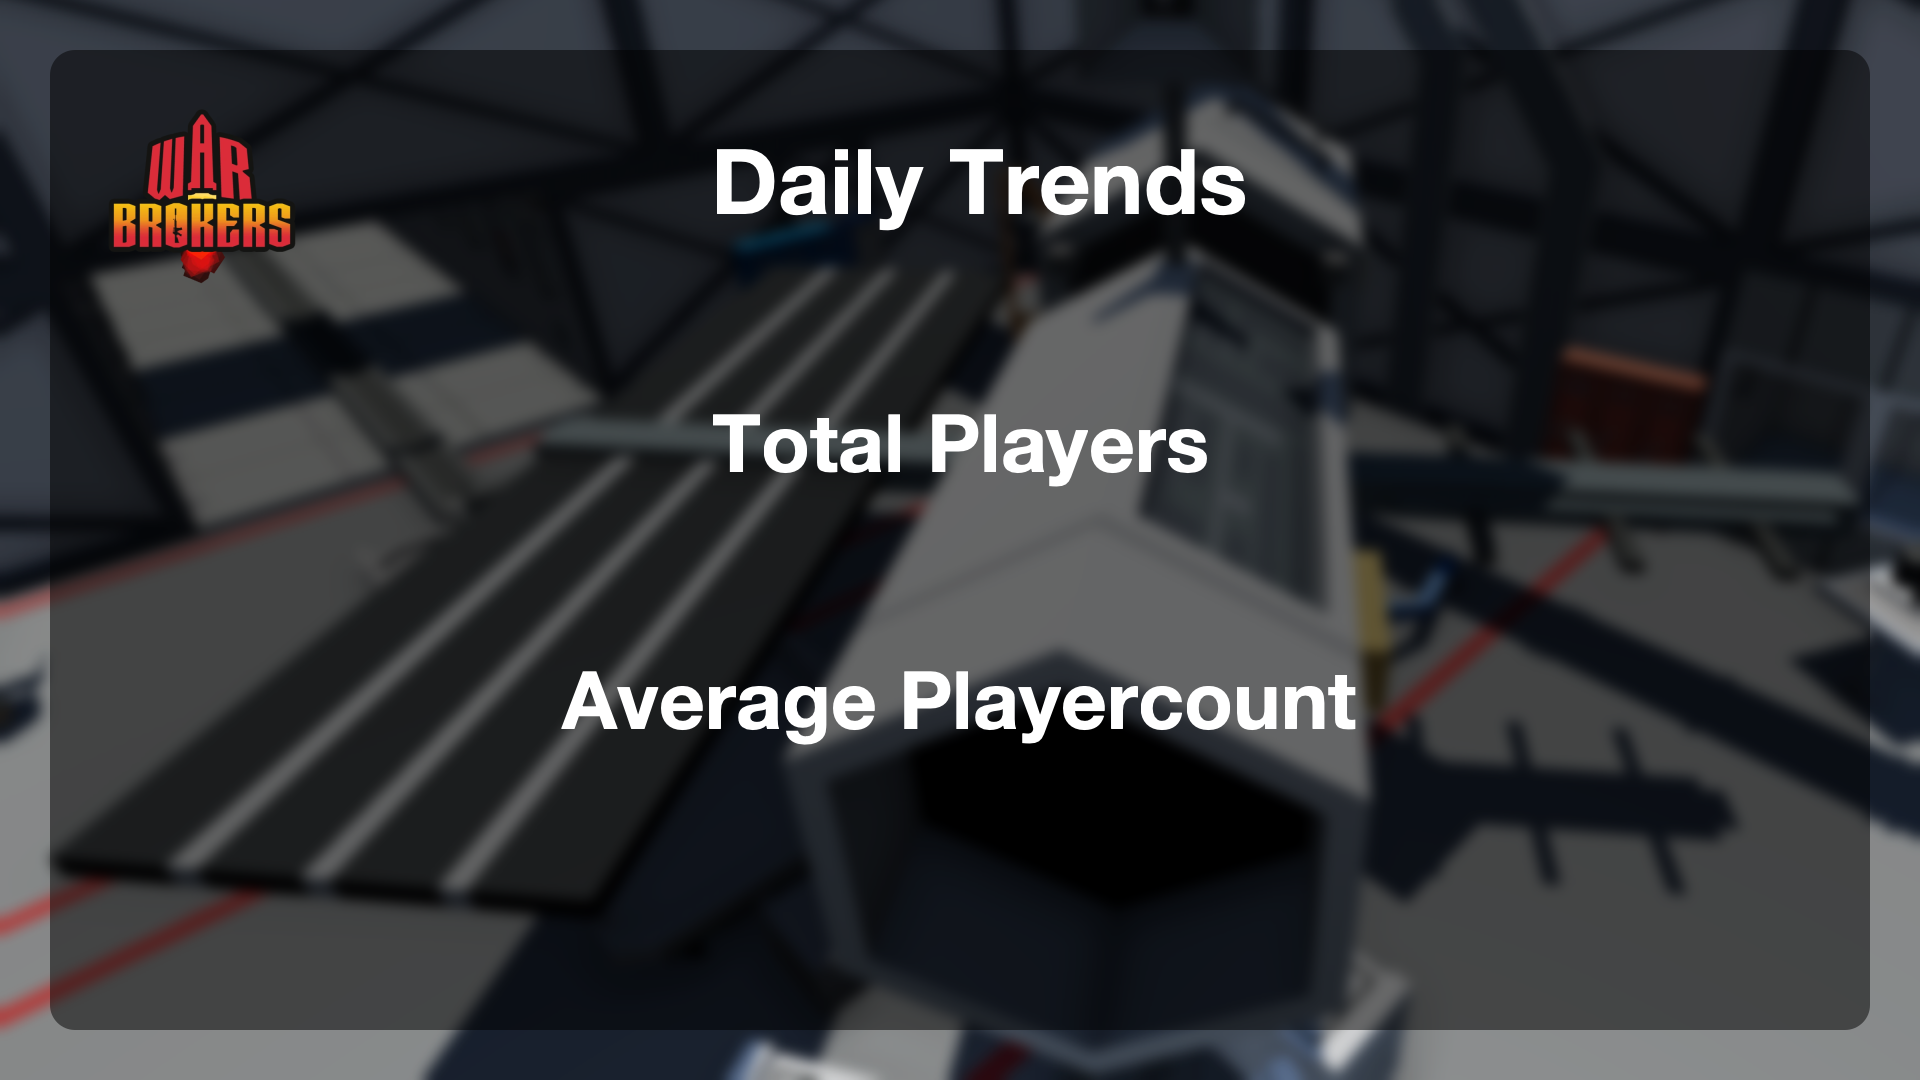
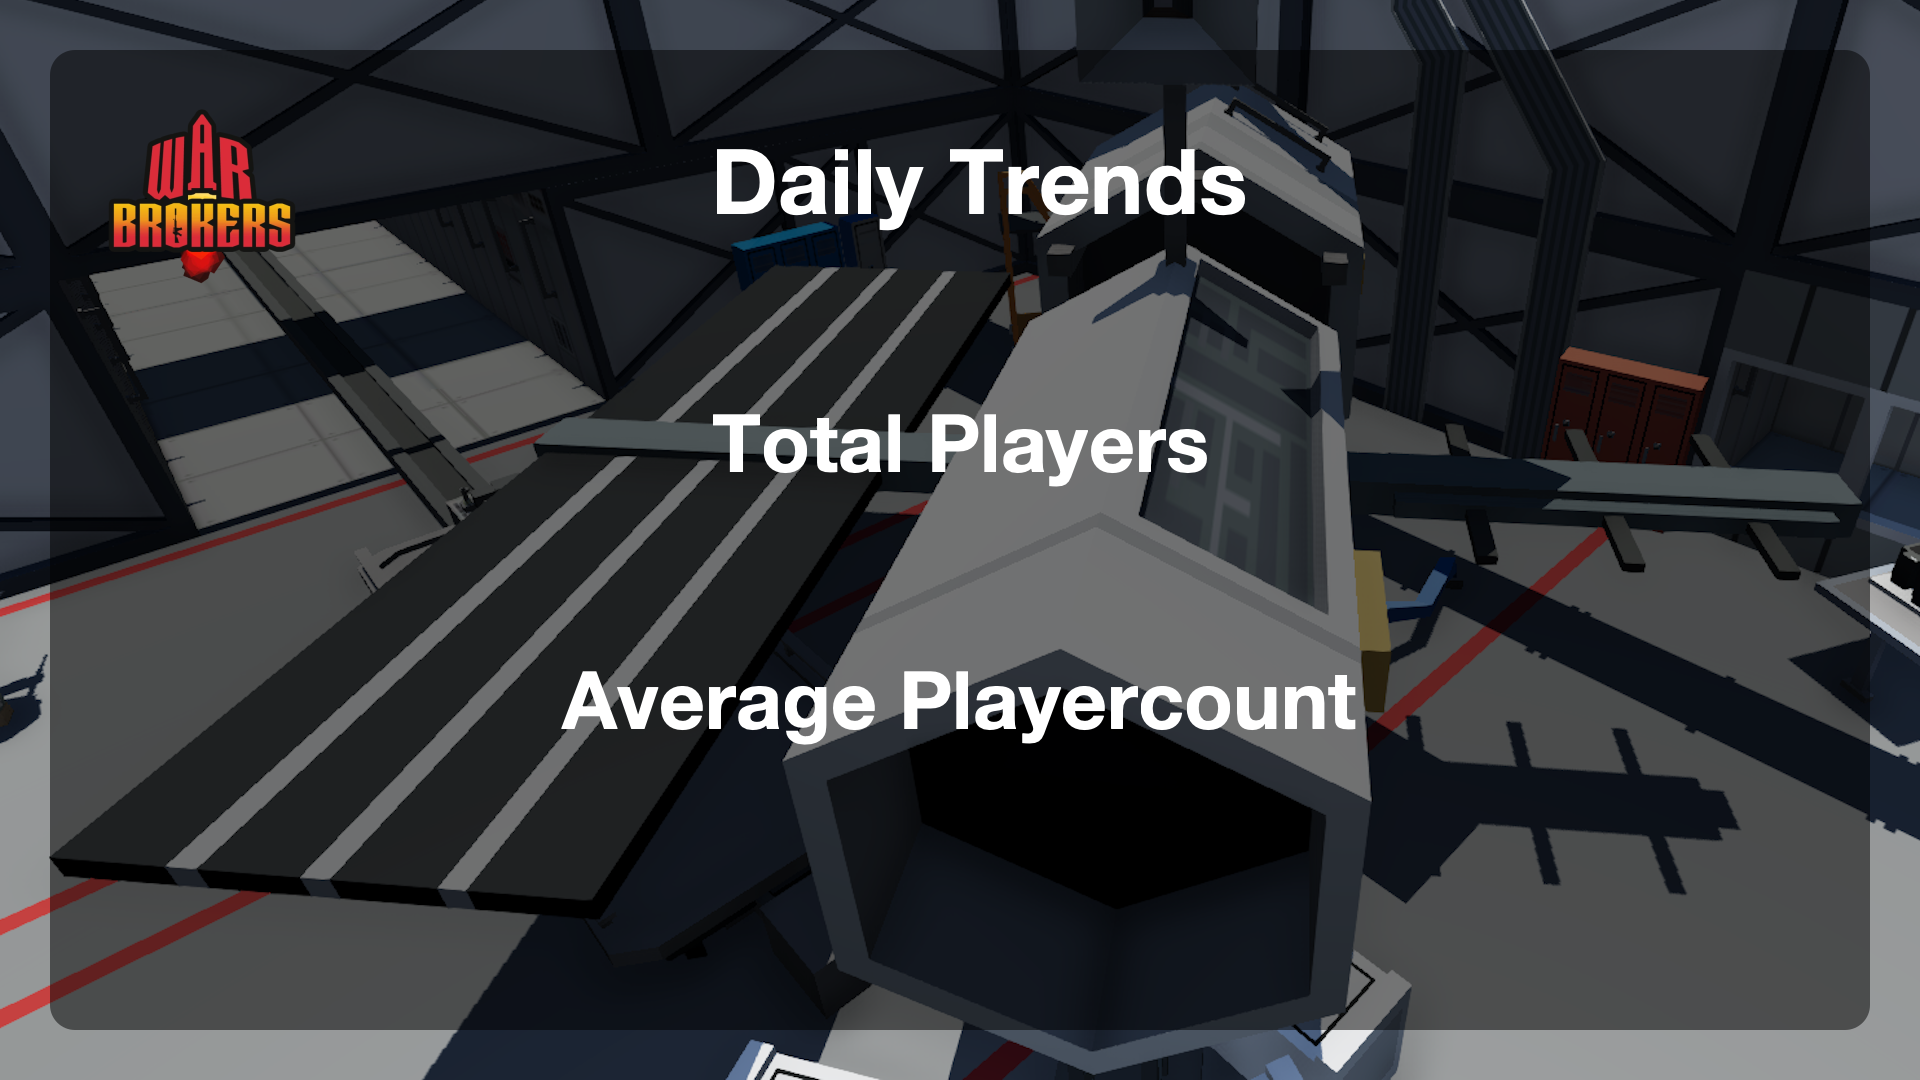
Add all backgrounds to necessary commands

diff --git a/create_background/squad_background.py b/create_background/squad_background.py
@@ -1,9 +1,7 @@
 from PIL import Image, ImageDraw, ImageFilter
-import random
+import os
 
-import sys, os
-sys.path.append(os.path.abspath(os.path.join(os.path.dirname(__file__), '..')))
-#import functions
+import background_functions
 
 OPACITY = 200
 LEFT_TEXT = 870
@@ -20,15 +18,9 @@ RIGHT = (840 - SIZE[1]) - SPACING
 LOGO_SIZE = (85,85)
 PROFILE_PIC_SIZE = (192, 192)
 
-def get_random_background(blur:bool):
-    folder_path = "create_background/backgrounds"
-    png_files = [file for file in os.listdir(folder_path) if file.endswith('.png')]
-
-    image = random.choice(png_files)
-
-    image_path = os.path.join(folder_path, image)
-    im = Image.open(image_path)
-    im = im.resize((1440,810), Image.LANCZOS)
+def get_background(path, blur:bool):
+    im = Image.open(path)
+    im = im.resize((1440, 810), Image.LANCZOS)
     if blur:
         im = im.filter(ImageFilter.GaussianBlur(radius=5.0))
     
@@ -69,9 +61,9 @@ def logo(im):
 
     logo = logo.resize(LOGO_SIZE, Image.LANCZOS).convert("RGBA")
 
-    functions.create_rounded_rectangle(image=im, size=(780,100), corner_radius=25, color=(0,0,0,OPACITY), position=(420, 79))
+    background_functions.create_rounded_rectangle(image=im, size=(780,100), corner_radius=25, color=(0,0,0,OPACITY), position=(420, 79))
     im.paste(logo, (55, int(79 - LOGO_SIZE[1]/2) + 2), logo)
-    functions.text_bold(im=im, text="Squad Overview", color=(255, 255, 255), position=(LEFT - (SIZE[0]/2) + 125, 77), font_size=45, anchor="lm")
+    background_functions.text_bold(im=im, text="Squad Overview", color=(255, 255, 255), position=(LEFT - (SIZE[0]/2) + 125, 77), font_size=45, anchor="lm")
 
 
 def profile_pic(im, profile_picture, wb_logo:bool):
@@ -95,29 +87,29 @@ def profile_pic(im, profile_picture, wb_logo:bool):
 # Squad Members
 def squad_members(im):
     Y_POSITION = RIGHT_Y_POSITION + 300
-    functions.text_narrow(im, text="Squad Members:", color=(255,255,255), position=(LEFT_TEXT,Y_POSITION), font_size=39, anchor="lm")
+    background_functions.text_narrow(im, text="Squad Members:", color=(255,255,255), position=(LEFT_TEXT,Y_POSITION), font_size=39, anchor="lm")
 
 
 # all the kdr related text
 def kdr(im):
     Y_POSITION = RIGHT_Y_POSITION + 401
-    functions.text_narrow(im, text="Squad Kills / Death:", color=(255,255,255), position=(LEFT_TEXT,Y_POSITION), font_size=38, anchor="lm")
+    background_functions.text_narrow(im, text="Squad Kills / Death:", color=(255,255,255), position=(LEFT_TEXT,Y_POSITION), font_size=38, anchor="lm")
 
 # all the kpm related text
 def kpm(im):
     Y_POSITION = RIGHT_Y_POSITION + 500
-    functions.text_narrow(im, text="Squad Kills / Min:", color=(255,255,255), position=(LEFT_TEXT,Y_POSITION), font_size=38, anchor="lm")
+    background_functions.text_narrow(im, text="Squad Kills / Min:", color=(255,255,255), position=(LEFT_TEXT,Y_POSITION), font_size=38, anchor="lm")
 
 def level(im):
     Y_POSITION = RIGHT_Y_POSITION + 600
-    functions.text_narrow(im, text="Avg Squad Level:", color=(255,255,255), position=(LEFT_TEXT,Y_POSITION), font_size=38, anchor="lm")
+    background_functions.text_narrow(im, text="Avg Squad Level:", color=(255,255,255), position=(LEFT_TEXT,Y_POSITION), font_size=38, anchor="lm")
 
 # creates the card backgrounds on the image
 def create_backgrounds(im):
     for height in range(3):
         #old radius 10
-        functions.create_rounded_rectangle(image=im, size=SIZE, corner_radius=25, color=(0,0,0,OPACITY), position=(LEFT,TOP_Y_POSITION + height*(SPACING+SIZE[1])))
-        functions.create_rounded_rectangle(image=im, size=SIZE, corner_radius=25, color=(0,0,0,OPACITY), position=(RIGHT,TOP_Y_POSITION + height*(SPACING+SIZE[1])))
+        background_functions.create_rounded_rectangle(image=im, size=SIZE, corner_radius=25, color=(0,0,0,OPACITY), position=(LEFT,TOP_Y_POSITION + height*(SPACING+SIZE[1])))
+        background_functions.create_rounded_rectangle(image=im, size=SIZE, corner_radius=25, color=(0,0,0,OPACITY), position=(RIGHT,TOP_Y_POSITION + height*(SPACING+SIZE[1])))
 
 # the base function to create a card text on the image
 def create_card(im, category:str, column:int, row:int):
@@ -128,7 +120,7 @@ def create_card(im, category:str, column:int, row:int):
 
     y_pos = TOP_Y_POSITION + row*(SPACING + SIZE[1])
 
-    functions.text_narrow(im, text=f"{category}:", color=(255,255,255), position=(x_pos, y_pos - 25), font_size=41, anchor="lm")
+    background_functions.text_narrow(im, text=f"{category}:", color=(255,255,255), position=(x_pos, y_pos - 25), font_size=41, anchor="lm")
 
 def kill_card(im):
     create_card(im, "Total Kills", 0, 0)
@@ -149,9 +141,8 @@ def gamesELO(im):
     create_card(im, "Avg Games ELO", 1, 2)
 
 
-def create_stat_card():
-    im = get_random_background(True)
-
+def create_stat_card(file_path, file_name):
+    im = get_background(file_path, True)
 
     logo(im)
     create_right_background(im)
@@ -171,6 +162,10 @@ def create_stat_card():
     killsELO(im)
     gamesELO(im)
 
-    im.show()
+    im.save(f"create_background/outputted_backgrounds/{file_name}")
 
-create_stat_card()
+folder_path = "create_background/backgrounds"
+for filename in os.listdir(folder_path):
+    if filename != ".DS_Store":
+        file_path = os.path.join(folder_path, filename)
+        create_stat_card(file_path, filename)

diff --git a/create_background/user_background.py b/create_background/user_background.py
@@ -1,9 +1,6 @@
 from PIL import Image, ImageDraw, ImageFilter
-import random
-
-import sys, os
-sys.path.append(os.path.abspath(os.path.join(os.path.dirname(__file__), '..')))
-import functions
+import os
+import background_functions
 
 OPACITY = 175 # old = 200
 LEFT_TEXT = 870
@@ -20,16 +17,9 @@ RIGHT = (840 - SIZE[1]) - SPACING
 LOGO_SIZE = (85,85)
 PROFILE_PIC_SIZE = (192, 192)
 
-def get_random_background(blur:bool):
-    '''folder_path = "create_background/backgrounds"
-    png_files = [file for file in os.listdir(folder_path) if file.endswith('.png')]
-
-    image = random.choice(png_files)
-
-    image_path = os.path.join(folder_path, image)'''
-    image_path = "create_background/backgrounds/farm.png"
-    im = Image.open(image_path)
-    im = im.resize((1440,810), Image.LANCZOS)
+def get_background(path, blur:bool):
+    im = Image.open(path)
+    im = im.resize((1440, 810), Image.LANCZOS)
     if blur:
         im = im.filter(ImageFilter.GaussianBlur(radius=5.0))
     
@@ -70,9 +60,9 @@ def logo(im):
 
     logo = logo.resize(LOGO_SIZE, Image.LANCZOS).convert("RGBA")
 
-    functions.create_rounded_rectangle(image=im, size=(780,100), corner_radius=25, color=(0,0,0,OPACITY), position=(420, 79))
+    background_functions.create_rounded_rectangle(image=im, size=(780,100), corner_radius=25, color=(0,0,0,OPACITY), position=(420, 79))
     im.paste(logo, (55, int(79 - LOGO_SIZE[1]/2) + 2), logo)
-    functions.text_bold(im=im, text="Player Overview", color=(255, 255, 255), position=(LEFT - (SIZE[0]/2) + 125, 77), font_size=45, anchor="lm")
+    background_functions.text_bold(im=im, text="Player Overview", color=(255, 255, 255), position=(LEFT - (SIZE[0]/2) + 125, 77), font_size=45, anchor="lm")
 
 
 def profile_pic(im, profile_picture, wb_logo:bool):
@@ -97,19 +87,19 @@ def profile_pic(im, profile_picture, wb_logo:bool):
 def kdr(im):
     Y_POSITION = RIGHT_Y_POSITION + 323
     # description
-    functions.text_narrow(im, text="Kills / Death:", color=(255,255,255), position=(LEFT_TEXT,Y_POSITION), font_size=38, anchor="lm")
+    background_functions.text_narrow(im, text="Kills / Death:", color=(255,255,255), position=(LEFT_TEXT,Y_POSITION), font_size=38, anchor="lm")
 
 # all the kpm related text
 def kpm(im):
     Y_POSITION = RIGHT_Y_POSITION + 509
     # description
-    functions.text_narrow(im, text="Kills / Min:", color=(255,255,255), position=(LEFT_TEXT,Y_POSITION), font_size=38, anchor="lm")
+    background_functions.text_narrow(im, text="Kills / Min:", color=(255,255,255), position=(LEFT_TEXT,Y_POSITION), font_size=38, anchor="lm")
 
 # creates the card backgrounds on the image
 def create_backgrounds(im):
     for height in range(3):
-        functions.create_rounded_rectangle(image=im, size=SIZE, corner_radius=25, color=(0,0,0,OPACITY), position=(LEFT,TOP_Y_POSITION + height*(SPACING+SIZE[1])))
-        functions.create_rounded_rectangle(image=im, size=SIZE, corner_radius=25, color=(0,0,0,OPACITY), position=(RIGHT,TOP_Y_POSITION + height*(SPACING+SIZE[1])))
+        background_functions.create_rounded_rectangle(image=im, size=SIZE, corner_radius=25, color=(0,0,0,OPACITY), position=(LEFT,TOP_Y_POSITION + height*(SPACING+SIZE[1])))
+        background_functions.create_rounded_rectangle(image=im, size=SIZE, corner_radius=25, color=(0,0,0,OPACITY), position=(RIGHT,TOP_Y_POSITION + height*(SPACING+SIZE[1])))
 
 # the base function to create a card text on the image
 def create_card(im, category:str, column:int, row:int):
@@ -120,7 +110,7 @@ def create_card(im, category:str, column:int, row:int):
 
     y_pos = TOP_Y_POSITION + row*(SPACING + SIZE[1])
 
-    functions.text_narrow(im, text=f"{category}:", color=(255,255,255), position=(x_pos, y_pos - 45), font_size=36, anchor="lm")
+    background_functions.text_narrow(im, text=f"{category}:", color=(255,255,255), position=(x_pos, y_pos - 45), font_size=36, anchor="lm")
 
 def kill_card(im):
     create_card(im, "Kills", 0, 0)
@@ -141,8 +131,8 @@ def gamesELO(im):
     create_card(im, "Games ELO", 1, 2)
 
 
-def create_stat_card():
-    im = get_random_background(True)
+def create_stat_card(filepath, file_name):
+    im = get_background(filepath, True)
 
 
     logo(im)
@@ -162,6 +152,10 @@ def create_stat_card():
     killsELO(im)
     gamesELO(im)
 
-    im.show()
+    im.save(f"create_background/outputted_backgrounds/{file_name}")
 
-create_stat_card()
+folder_path = "create_background/backgrounds"
+for filename in os.listdir(folder_path):
+    if filename != ".DS_Store":
+        file_path = os.path.join(folder_path, filename)
+        create_stat_card(file_path, filename)

diff --git a/create_background/leaderboard.py b/create_background/leaderboard.py
@@ -1,9 +1,7 @@
 from PIL import Image, ImageDraw, ImageFilter
-import random
+import os
 
-import sys, os
-sys.path.append(os.path.abspath(os.path.join(os.path.dirname(__file__), '..')))
-import functions
+import background_functions
 
 OPACITY = 200
 LEFT_TEXT = 870
@@ -19,14 +17,8 @@ PLACEMENT_SIZE = (62, 57)
 #MIDDLE_CARD_POS = SIZE[0] / 2 + 10
 TOP_Y_POSITION = SIZE[1]/2 + 180
 
-def get_random_background(blur:bool):
-    folder_path = "create_background/backgrounds"
-    png_files = [file for file in os.listdir(folder_path) if file.endswith('.png')]
-
-    image = random.choice(png_files)
-
-    image_path = os.path.join(folder_path, image)
-    im = Image.open(image_path)
+def get_background(path, blur:bool):
+    im = Image.open(path)
     im = im.resize(IMAGE_SIZE, Image.LANCZOS)
     if blur:
         im = im.filter(ImageFilter.GaussianBlur(radius=5.0))
@@ -35,11 +27,11 @@ def get_random_background(blur:bool):
 
 def title(im):
     Y_POSITION1 = 60
-    functions.create_rounded_rectangle(image=im, size=(484, 80), corner_radius=25, color=(0,0,0,OPACITY), position=(IMAGE_SIZE[0]/2, Y_POSITION1))
+    background_functions.create_rounded_rectangle(image=im, size=(484, 80), corner_radius=25, color=(0,0,0,OPACITY), position=(IMAGE_SIZE[0]/2, Y_POSITION1))
     #functions.text_bold(im=im, text="Lifetime Leaderboard", color=(255, 255, 255), position=(IMAGE_SIZE[0]/2, Y_POSITION1-2), font_size=45, anchor="mm")
 
     Y_POSITION2 = 135
-    functions.create_rounded_rectangle(image=im, size=(270, 55), corner_radius=15, color=(0,0,0,OPACITY), position=(IMAGE_SIZE[0]/2, Y_POSITION2))
+    background_functions.create_rounded_rectangle(image=im, size=(270, 55), corner_radius=15, color=(0,0,0,OPACITY), position=(IMAGE_SIZE[0]/2, Y_POSITION2))
     #functions.text_bold(im=im, text="Tactical Shotgun", color=(255, 255, 255), position=(IMAGE_SIZE[0]/2, Y_POSITION2), font_size=32, anchor="mm")
 
     
@@ -47,19 +39,23 @@ def title(im):
 # creates the card backgrounds on the image
 def create_backgrounds(im):
     for height in range(10):
-        functions.create_rounded_rectangle(image=im, size=SIZE, corner_radius=15, color=(0,0,0,OPACITY), position=(336,TOP_Y_POSITION + height*(STEP)))
-        functions.create_rounded_rectangle(image=im, size=PLACEMENT_SIZE, corner_radius=15, color=(0,0,0,OPACITY), position=(41,TOP_Y_POSITION + height*(STEP)))
+        background_functions.create_rounded_rectangle(image=im, size=SIZE, corner_radius=15, color=(0,0,0,OPACITY), position=(336,TOP_Y_POSITION + height*(STEP)))
+        background_functions.create_rounded_rectangle(image=im, size=PLACEMENT_SIZE, corner_radius=15, color=(0,0,0,OPACITY), position=(41,TOP_Y_POSITION + height*(STEP)))
         #functions.text_bold(im, f"{height+11}", (200,200,200), (41, TOP_Y_POSITION + height*(STEP)), 36, "mm")
         #functions.text_narrow(im, "EpicEfeathers", (255,255,255), (100, TOP_Y_POSITION + height*(STEP)), 34, "lm")
         #functions.text(im, "120", (255,255,255), (IMAGE_SIZE[0]-30, TOP_Y_POSITION + height*(STEP)), 36, "rm")
 
 
-def create_stat_card():
-    im = get_random_background(True)
+def create_stat_card(file_path, file_name):
+    im = get_background(file_path, True)
     
     create_backgrounds(im)
     title(im)
 
-    im.show()
+    im.save(f"create_background/outputted_backgrounds/{file_name}")
 
-create_stat_card()
+folder_path = "create_background/backgrounds"
+for filename in os.listdir(folder_path):
+    if filename != ".DS_Store":
+        file_path = os.path.join(folder_path, filename)
+        create_stat_card(file_path, filename)

diff --git a/create_background/background_functions.py b/create_background/background_functions.py
@@ -1,0 +1,40 @@
+from PIL import Image, ImageDraw, ImageFont
+
+FONT_PATH = "HelveticaNeue.ttc"
+
+def draw_text(im, text, color, position, font_size, index, anchor):
+    draw = ImageDraw.Draw(im)
+    font = ImageFont.truetype(FONT_PATH, font_size, index=index)
+    draw.text(position, str(text), font=font, fill=color,anchor=anchor)
+
+def text_bold(im, text, color, position, font_size, anchor):
+    draw_text(im, text, color, position, font_size, 10, anchor=anchor)
+
+def text(im, text, color, position, font_size, anchor):
+    draw_text(im, text, color, position, font_size, 0, anchor=anchor)
+
+def text_narrow(im, text, color, position, font_size, anchor):
+    draw_text(im, text, color, position, font_size, 7, anchor=anchor)
+
+def create_rounded_rectangle(image, size, corner_radius, color, position, scale_factor=3):
+    width, height = size
+    scaled_size = (width * scale_factor, height * scale_factor)
+    scaled_radius = corner_radius * scale_factor
+
+    # centre on position, rather than top left
+    position = int(position[0] - width/2), int(position[1] - height/2)
+
+    # Create a scaled-up image
+    rectangle = Image.new('RGBA', scaled_size, (0, 0, 0, 0))
+    draw = ImageDraw.Draw(rectangle)
+
+    # Draw the rounded rectangle on the scaled image
+    draw.rounded_rectangle(
+        [(0, 0), scaled_size],
+        radius=scaled_radius,
+        fill=color
+    )
+
+    # Downscale the image to the target size to apply anti-aliasing
+    rounded_rectangle = rectangle.resize(size, Image.LANCZOS)
+    image.paste(rounded_rectangle, position, rounded_rectangle)

diff --git a/create_background/trends.py b/create_background/trends.py
@@ -16,8 +16,8 @@ class colours:
     green = (0, 1, 0)
     red = (1, 0, 0)
 
-def create_stats_card():
-    cairo_surface = cairo.ImageSurface.create_from_png("tests/blurred_images/space_station.png")
+def create_stats_card(file_path, file_name):
+    cairo_surface = cairo.ImageSurface.create_from_png(file_path)
 
     ctx = cairo.Context(cairo_surface)
     background_size = (SIZE[0]-100, SIZE[1]-100)
@@ -56,7 +56,7 @@ def create_stats_card():
 
     surface = cairo_functions.add_text_to_surface(cairo_surface, text_elements)
 
-    surface.write_to_png("test.png")
+    surface.write_to_png(f"create_background/outputted_backgrounds/{file_name}")
 
 def draw_rounded_rectangle(ctx, x, y, width, height, radius):
     """Draws a rounded rectangle on the given cairo context."""
@@ -69,4 +69,8 @@ def draw_rounded_rectangle(ctx, x, y, width, height, radius):
     ctx.arc(x + radius, y + radius, radius, 180 * (3.14/180), 270 * (3.14/180))
     ctx.close_path()
 
-create_stats_card()
+folder_path = "create_background/backgrounds"
+for filename in os.listdir(folder_path):
+    if filename != ".DS_Store":
+        file_path = os.path.join(folder_path, filename)
+        create_stats_card(file_path, filename)

diff --git a/create_background/warbrokers.py b/create_background/warbrokers.py
@@ -14,8 +14,8 @@ SIZE = (1920, 1080)
 class colours:
     white = (1,1,1)
 
-def create_stats_card():
-    cairo_surface = cairo.ImageSurface.create_from_png("tests/blurred_images/space_station.png")
+def create_stats_card(file_path, file_name):
+    cairo_surface = cairo.ImageSurface.create_from_png(file_path)
 
     ctx = cairo.Context(cairo_surface)
     background_size = (SIZE[0]-100, SIZE[1]-100)
@@ -63,7 +63,7 @@ def create_stats_card():
 
     surface = cairo_functions.add_text_to_surface(cairo_surface, text_elements)
 
-    surface.write_to_png("test.png")
+    surface.write_to_png(f"create_background/outputted_backgrounds/{file_name}")
 
 def draw_rounded_rectangle(ctx, x, y, width, height, radius):
     """Draws a rounded rectangle on the given cairo context."""
@@ -76,4 +76,8 @@ def draw_rounded_rectangle(ctx, x, y, width, height, radius):
     ctx.arc(x + radius, y + radius, radius, 180 * (3.14/180), 270 * (3.14/180))
     ctx.close_path()
 
-create_stats_card()
+folder_path = "create_background/backgrounds"
+for filename in os.listdir(folder_path):
+    if filename != ".DS_Store":
+        file_path = os.path.join(folder_path, filename)
+        create_stats_card(file_path, filename)
